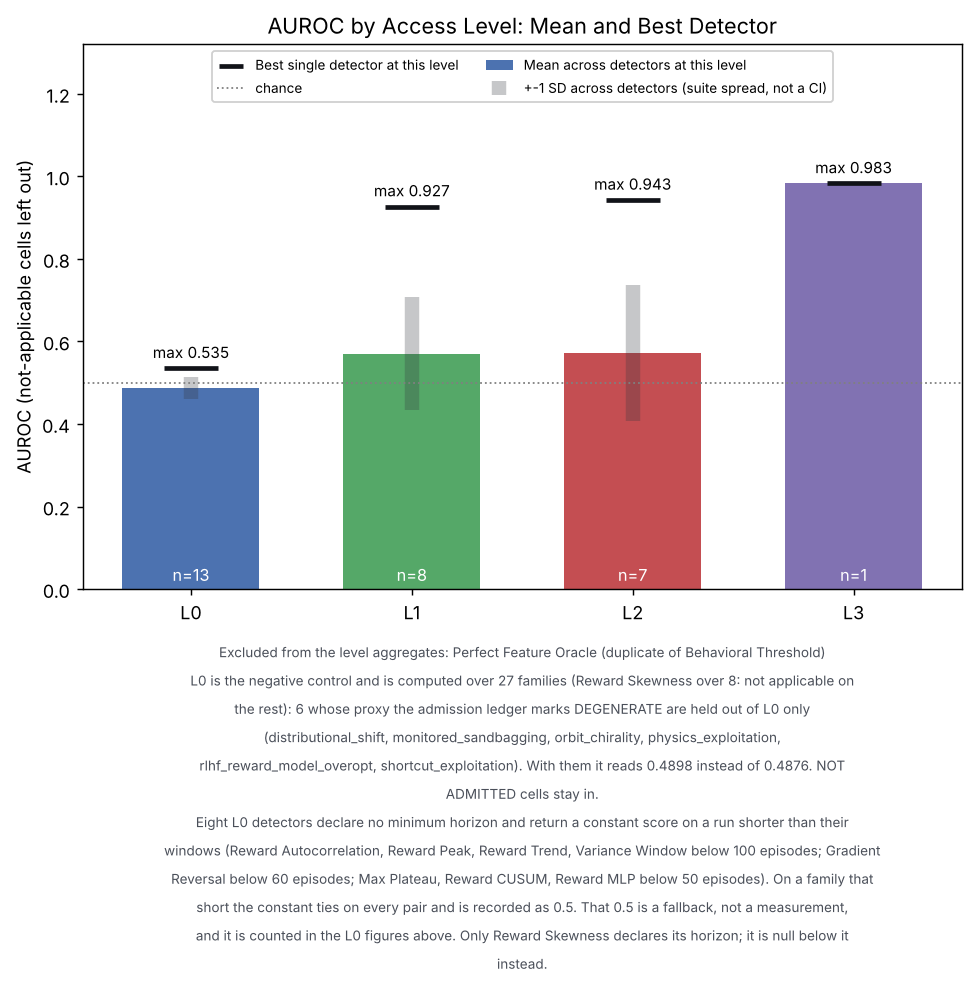
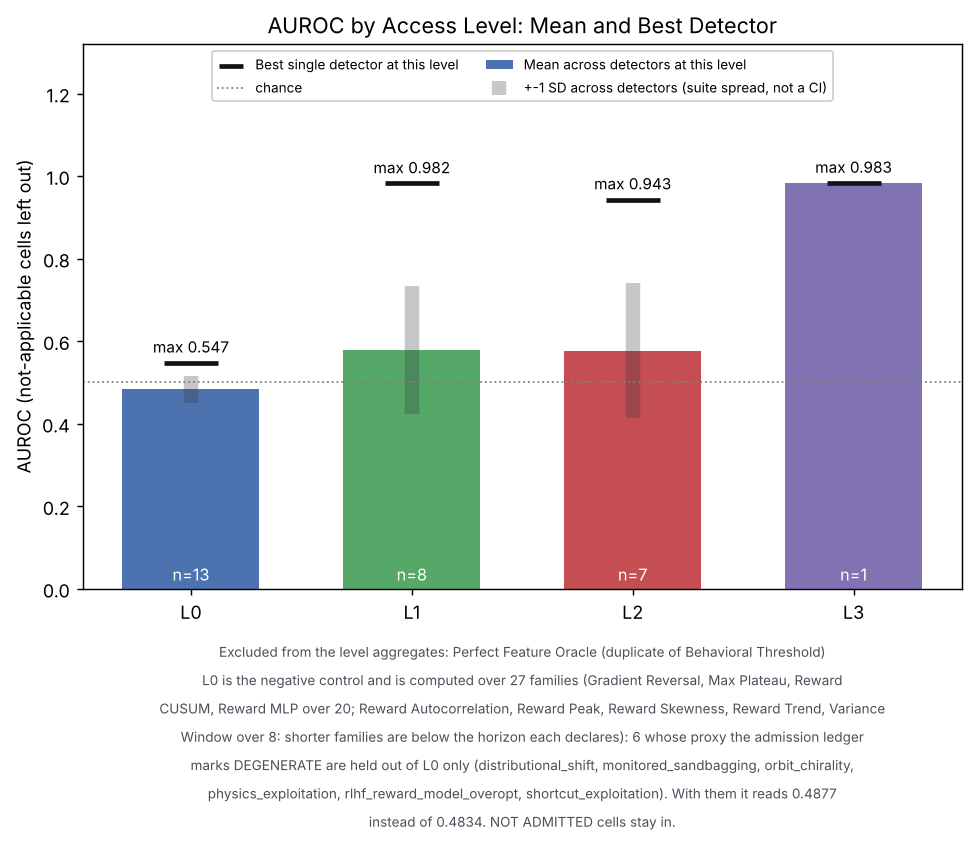
Access-level figures from the re-scored board (03d978e)
scripts/plot_v5_results.py on the board CI re-scored from f83a152. L0 0.4834 (best
0.5474, Reward CUSUM), L1 0.5789 (best 0.982, State Divergence), L2 0.5771 (best 0.943),
L3 0.983. The L0 note names the nine detectors measured on fewer families; the heatmap
draws their short-horizon cells grey. The board matches, detector by detector and
family by family, the old board with each family below a detector's min_episodes set
to null: nothing else moved.

Claude-Session: https://claude.ai/code/session_01HLuh2WXpwMBJbuS2DfEr7S

diff --git a/docs/figures/v5_access_summary.md b/docs/figures/v5_access_summary.md
@@ -1,14 +1,12 @@
 | Access level | Detectors | Mean AUROC | SD across detectors | Best AUROC | Best detector |
 |---|---|---|---|---|---|
-| L0 | 13 | 0.4876 | 0.0258 | 0.5351 | Reward CUSUM |
-| L1 | 8 | 0.5701 | 0.1366 | 0.9270 | State Divergence |
-| L2 | 7 | 0.5716 | 0.1647 | 0.9430 | Trajectory MLP |
+| L0 | 13 | 0.4834 | 0.0324 | 0.5474 | Reward CUSUM |
+| L1 | 8 | 0.5789 | 0.1543 | 0.9820 | State Divergence |
+| L2 | 7 | 0.5771 | 0.1639 | 0.9430 | Trajectory MLP |
 | L3 | 1 | 0.9830 | 0.0000 | 0.9830 | True Reward Oracle |
 
 SD is the spread across the detectors at a level, not a confidence interval: the detectors share one evaluation draw, so these are not independent replicates.
 
-L0 is computed over 27 families (Reward Skewness over 8 of them: it is not applicable on the other 19). 6 are held out because the admission ledger marks their proxy DEGENERATE -- constant, nearly constant, or identical in every run, so an L0 detector's AUROC on them is the tie convention (0.5) or rounding error, not evidence of matching: **distributional_shift**, **monitored_sandbagging**, **orbit_chirality**, **physics_exploitation**, **rlhf_reward_model_overopt**, **shortcut_exploitation**. Putting them back would read 0.4898 instead of 0.4876. They are held out of L0 only; the other levels do not read the proxy reward and score these families like any other. Cells the ledger measures NOT ADMITTED are not held out and stay in the mean; whether they should is an open question (ROADMAP.md).
-
-Eight L0 detectors declare no minimum horizon and return a constant score on a run shorter than their windows (Reward Autocorrelation, Reward Peak, Reward Trend, Variance Window below 100 episodes; Gradient Reversal below 60 episodes; Max Plateau, Reward CUSUM, Reward MLP below 50 episodes). On a family that short the constant ties on every pair and is recorded as 0.5. That 0.5 is a fallback, not a measurement, and it is counted in the L0 figures above. Only Reward Skewness declares its horizon; it is null below it instead.
+L0 is computed over 27 families (Gradient Reversal, Max Plateau, Reward CUSUM and Reward MLP over 20 of them; Reward Autocorrelation, Reward Peak, Reward Skewness, Reward Trend and Variance Window over 8 of them: the other families run fewer episodes than the detector declares it needs, and it is not applicable there). 6 are held out because the admission ledger marks their proxy DEGENERATE -- constant, nearly constant, or identical in every run, so an L0 detector's AUROC on them is the tie convention (0.5) or rounding error, not evidence of matching: **distributional_shift**, **monitored_sandbagging**, **orbit_chirality**, **physics_exploitation**, **rlhf_reward_model_overopt**, **shortcut_exploitation**. Putting them back would read 0.4877 instead of 0.4834. They are held out of L0 only; the other levels do not read the proxy reward and score these families like any other. Cells the ledger measures NOT ADMITTED are not held out and stay in the mean; whether they should is an open question (ROADMAP.md).
 
 Excluded from the L3 aggregate: **Perfect Feature Oracle** is a relabelled duplicate of **Behavioral Threshold** (identical scores on every family) and is reported only as a cross-check, never as an independent measurement at L3.
